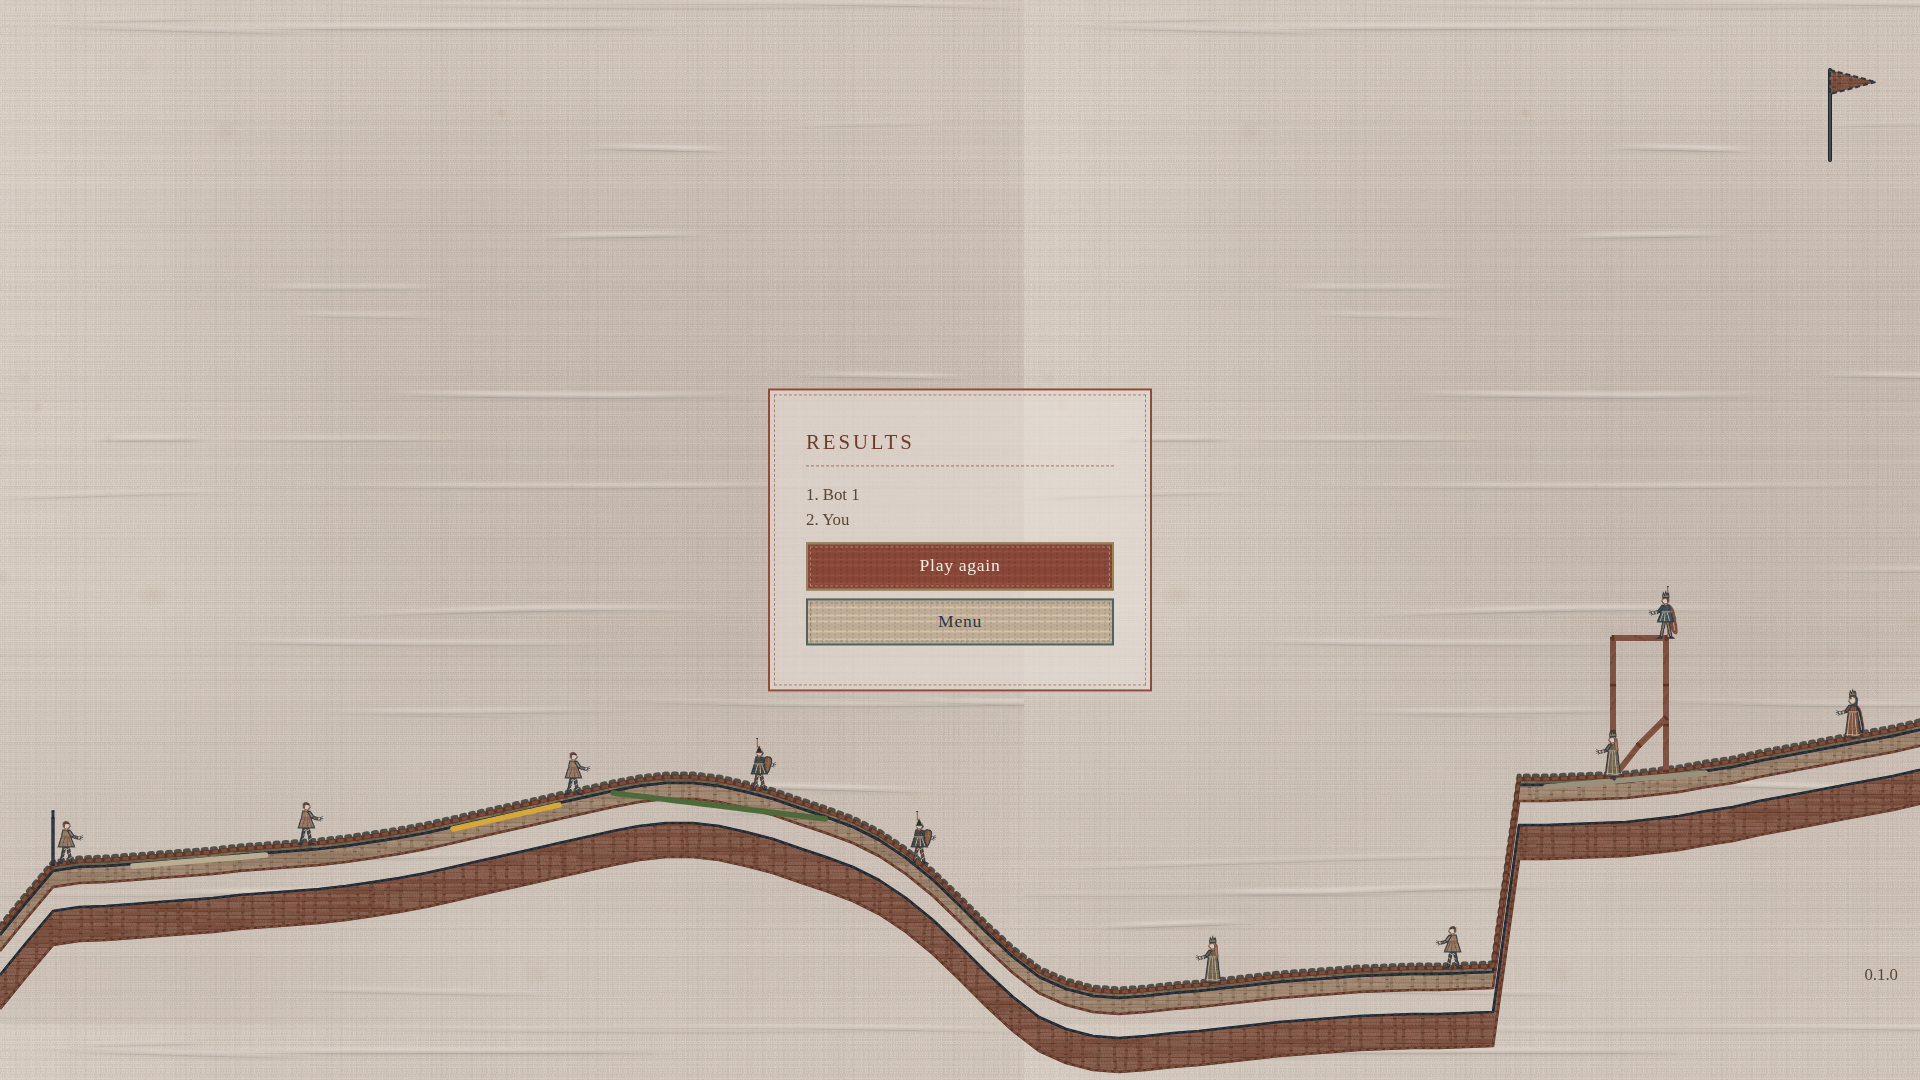
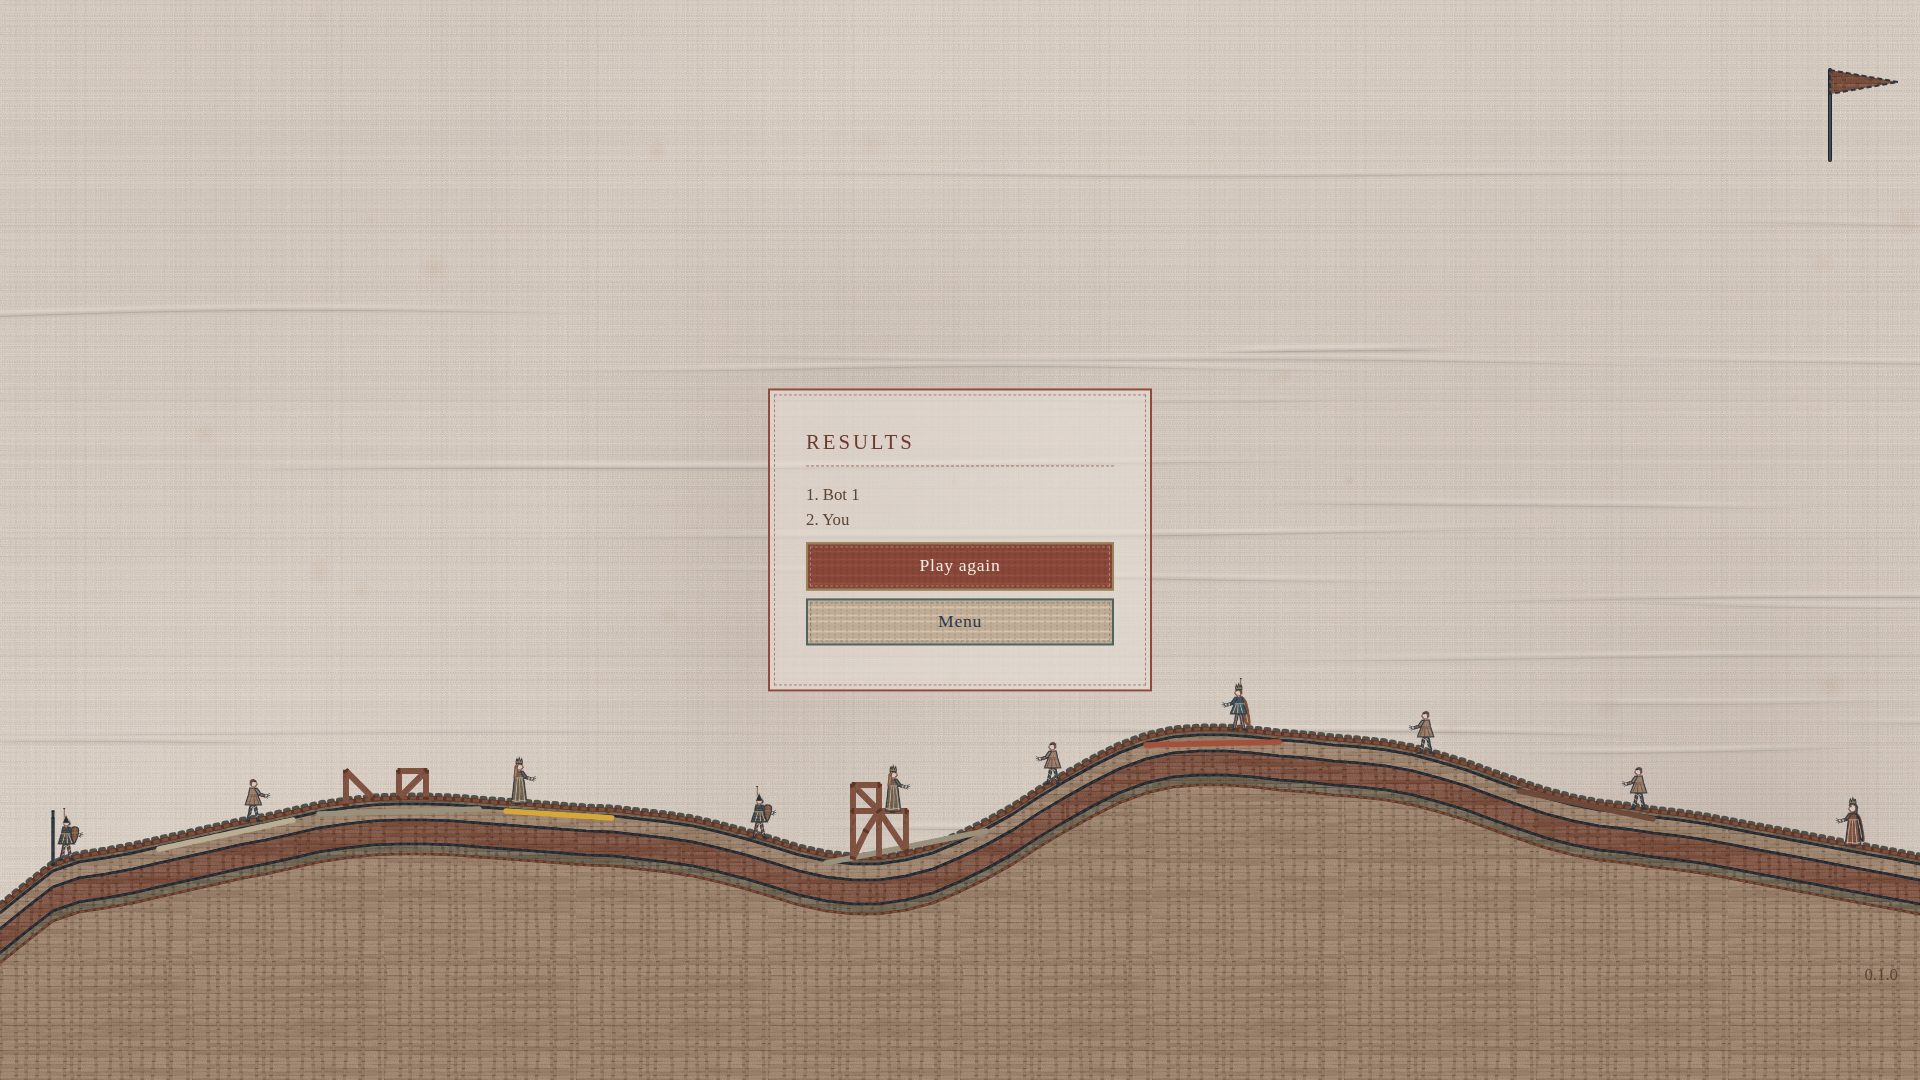
Ground fill: solid banded earth to the bottom of the screen; flight view keeps the ground and trebuchet in (R1.1700)

Changed region(s): [[0.0, 0.6417, 1.0, 1.0], [0.9375, 0.0611, 1.0, 0.0917], [0.8438, 0.55, 0.875, 0.6111]]

diff --git a/web/field-draw.js b/web/field-draw.js
@@ -188,6 +188,9 @@ function background(slot, f) {
     g.lineTo(first, h);
     g.closePath();
     g.clip();
+    // solid earth down to the bottom, the stitched bands laid over it
+    g.fillStyle = pattern(g, "wool-" + K.ground_fill);
+    g.fillRect(0, 0, w, h);
     for (const [name, a, b] of K.ground_bands) {
       const top = pts.map(([x, y]) => [x, y + G[a]]);
       const bot = pts.map(([x, y]) => [x, y + G[b]]);

diff --git a/crates/core/src/app/arena.rs b/crates/core/src/app/arena.rs
@@ -90,7 +90,7 @@ const CAM_MARGIN: i64 = 3;
 const CAM_BEHIND: i64 = 6;
 const CAM_FLY_MAX_W: i64 = 44;
 /// The widest a high shot opens the view to keep the ground in it.
-const CAM_FLY_TALL_W: i64 = 140;
+const CAM_FLY_TALL_W: i64 = 260;
 const CAM_AIM_MIN_W: i64 = 24;
 const CAM_AIM_MAX_W: i64 = 44;
 const CAM_EMPTY_W: i64 = 10;
@@ -518,6 +518,13 @@ impl Arena {
                 (tall * Fx::from_int(w as i64) / Fx::from_int(h.max(1) as i64))
                     .min(Fx::from_int(CAM_FLY_TALL_W)),
             );
+            // the trebuchet stays in while the widened view still holds the ball
+            let home = base.x - Fx::from_int(CAM_BEHIND);
+            let left = if home < left && b.pos.x + Fx::from_int(CAM_MARGIN) < home + width {
+                home
+            } else {
+                left
+            };
             let mut cam = Camera::spanning(left, width, Fx::ZERO, w, h);
             cam.bottom = floor - cam.height() / 6;
             let above = b.pos.y + Fx::from_int(CAM_MARGIN) - (cam.bottom + cam.height());

diff --git a/SECOND-ORDER.md b/SECOND-ORDER.md
@@ -195,7 +195,7 @@ One row per assumption, surprise or open item. **Kind** is *divergence* (what wa
 | R1.1505 | finding | Out of sync | A checksum mismatch stops the match on that browser (the room stops stepping) and the match screen becomes one panel, "Out of sync", with Leave. Results online offer "Back to lobby" instead of Play again | `online.desync` reworded (listed below) | `Room::over`, `App::out_of_sync_panels` | open |
 | R1.1506 | finding | The two-browser check | `tests/browser/online.py` (ported from Fleeced) meets by pasted codes with `?ice=none&fast&codes`, starts, both press Ready, and compares `body[data-sync]` (round, checksum tick, checksum) once both show the same tick. It does not play to the results (21,000 ticks is about 6 minutes); the core test does. Not in quick-check's steps: run by hand after `scripts/build.sh` with the project venv | Passed in Chromium, 11 checks | `tests/browser/online.py` | open |
 | R1.1600 | divergence | The trebuchet threw far past every plot (person: "it can fire way too far") | Best plain throw on the farthest map of seeds 1-300 (seed 67/296, back edge 188 cells at level 1, 244 at level 9) landed at 256 and 314 cells, 136% and 128% of the back edge | `treb_sling_pct` 2756 to 2470: best throw now 209 (111%) and 279 (114%); level-1 window 20 ticks (was 14). Deleted test `trebuchet_level_one_clears_a_far_raised_plot` (a 161-cell, 30-high hypothetical the terrain never made; real fronts are 112-148) and its stale break row `play: level one throw reaches the plot` (its test no longer exists). The online whole-match test now needs 27,600 ticks (match ends at 27,357, was 24,119) | test `trebuchet_best_throw_lands_just_past_the_farthest_plot_back`, MEASUREMENTS.md | open |
-| R1.1700 | finding | Blank siege view (match screenshot) | Two causes. (1) The eased eye was set before the tick's step, so the siege's first tick kept the build view (the target castle, 127 units right of the trebuchet at 14) and glided in over about 30 ticks; online (`follow`) never moved the eye. (2) A short swing throws nearly straight up (to 137 units over a ground near 40) and the flight view rose with the ball, so the ground and trebuchet left the bottom: the plain linen in the shot | The eye now moves at the end of `after_ticks` (solo and online) and snaps to the target on a phase or round change. In flight the view widens to keep the ground in it, up to `CAM_FLY_TALL_W` 140 units, and only then rises. The eased eye lags a fast-rising ball by about 5 units, so a lob can sit just above the top edge while the view widens. Breaks: removing the snap fails the first-tick test only once a build tick has set the eye (the test ticks 10 build ticks first, as play does) | `Arena::move_eye`, `siege_camera`; tests `arena_the_first_siege_tick_shows_the_trebuchet_and_the_ground_under_it`, `arena_a_high_shot_widens_the_view_and_keeps_the_ground_in_it` | open |
+| R1.1700 | finding | Blank siege view (match screenshot) | Two causes. (1) The eased eye was set before the tick's step, so the siege's first tick kept the build view (the target castle, 127 units right of the trebuchet at 14) and glided in over about 30 ticks; online (`follow`) never moved the eye. (2) A short swing throws nearly straight up (to 137 units over a ground near 40) and the flight view rose with the ball, so the ground and trebuchet left the bottom: the plain linen in the shot | The eye now moves at the end of `after_ticks` (solo and online) and snaps to the target on a phase or round change. In flight the view widens to keep the ground in it, up to `CAM_FLY_TALL_W` 260 units (140 still lost the ground on play_match's near-vertical shot), and only then rises; while the widened view still holds the ball its left edge stays behind the trebuchet. Ground fill (stage 2): the earth under the ground line is now solid down to the screen's bottom (`ground_fill` tan in data/stitch.json), with contiguous bands olive, tan, terracotta, olive (0-6-22-46-56 px; the old 22-46 gap and the empty linen under 80 are gone). play_match's siege shot (Space, 85 ms, Space in ?fast) is always this near-vertical lob, so it shows the widest flight view, not an aimed shot. The eased eye lags a fast-rising ball by about 5 units, so a lob can sit just above the top edge while the view widens. Breaks: removing the snap fails the first-tick test only once a build tick has set the eye (the test ticks 10 build ticks first, as play does) | `Arena::move_eye`, `siege_camera`; tests `arena_the_first_siege_tick_shows_the_trebuchet_and_the_ground_under_it`, `arena_a_high_shot_widens_the_view_and_keeps_the_ground_in_it` | open |
 
 ## Strings written by the agent
 
